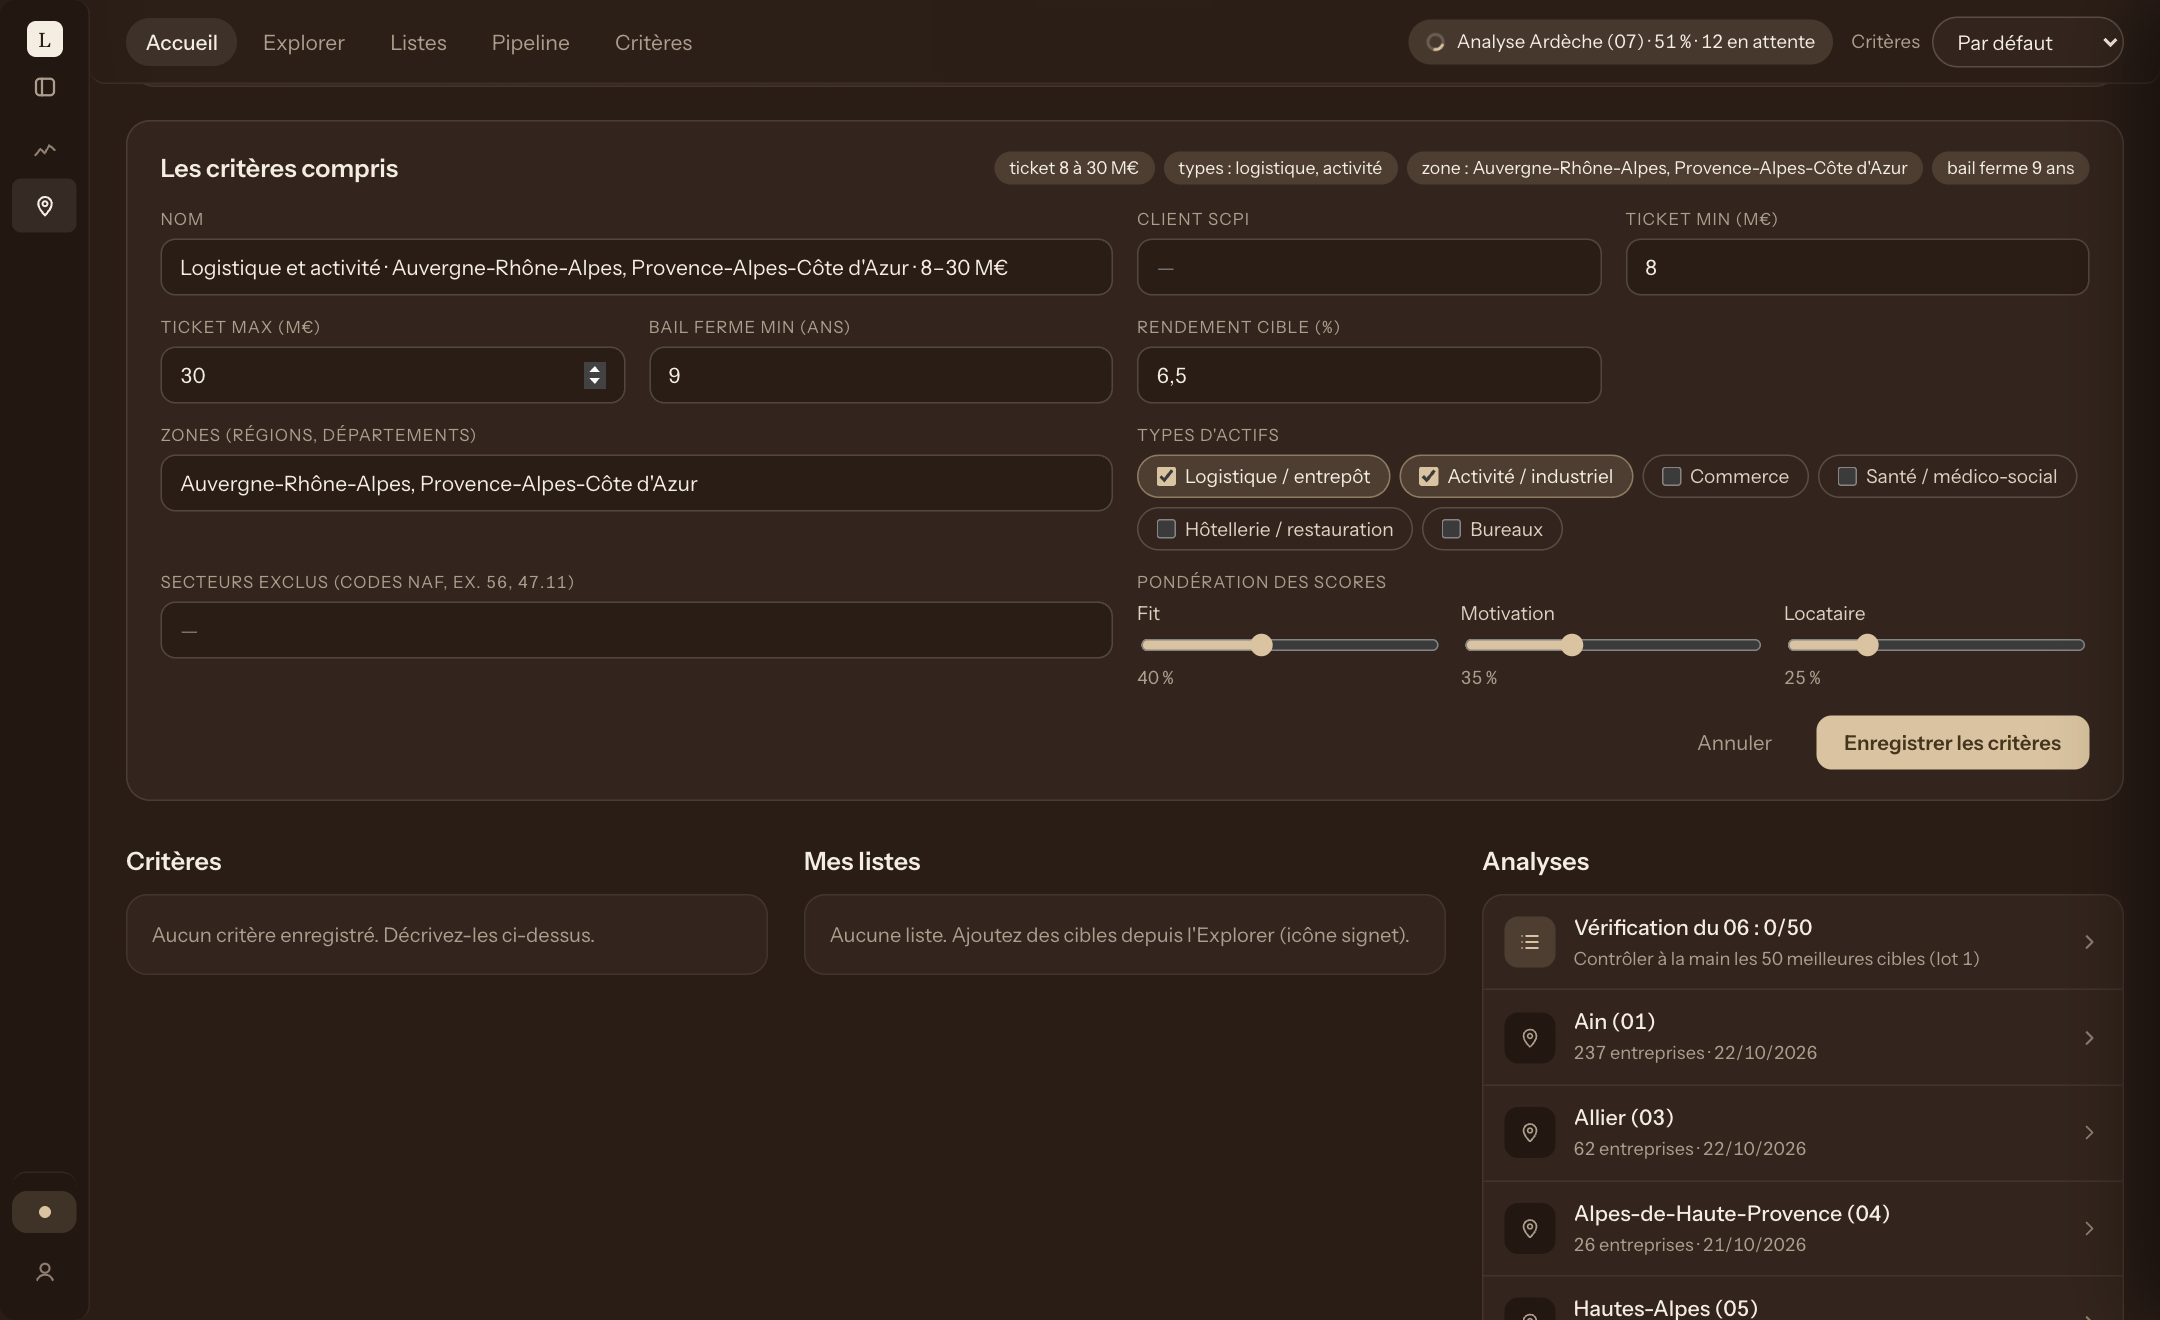
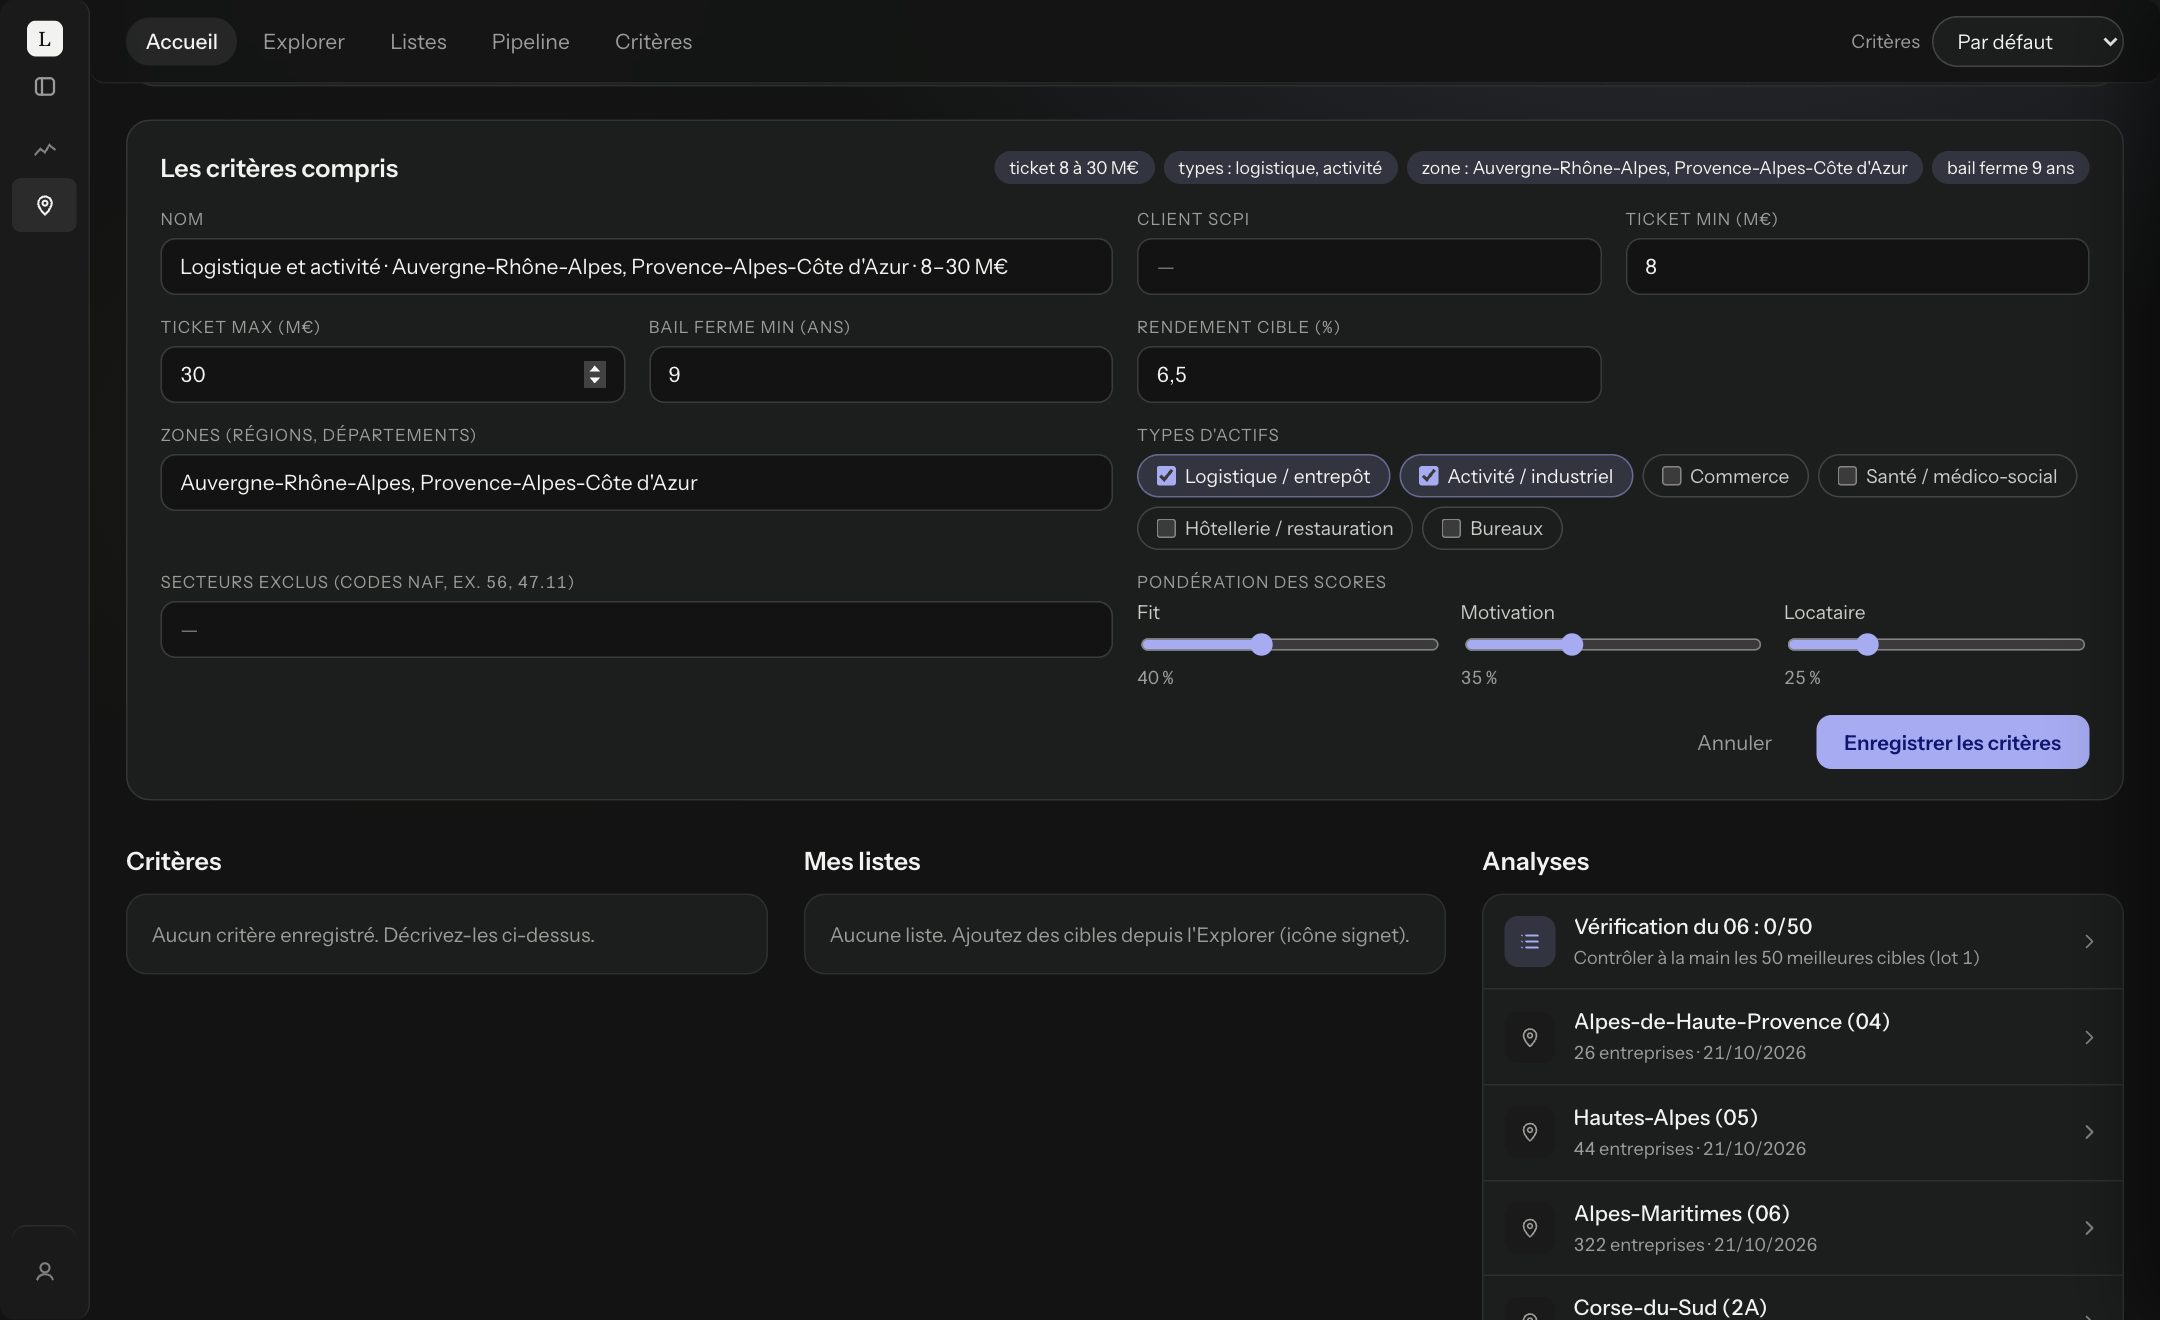
L'outil reprend son style d'avant ; la vitrine garde le chocolat et crème
Retour au thème gris et pervenche de l'application (titres sans serif,
pages de connexion d'origine) et aux captures de la vitrine prises dans
ce thème. La page vitrine conserve son style chocolat et crème.

diff --git a/public/css/theme-klocka.css b/public/css/theme-klocka.css
@@ -1,7 +1,6 @@
-/* Theme de Leez (22 oct. 2026) : chocolat et creme, titres en serif, accent
-   sable, d'apres la maquette « Leez Accueil ». Personnalisable par compte
-   (Mon compte > Personnalisation). Charge APRES leez.css : il redefinit les
-   jetons de couleur.
+/* Theme aux tons de Klocka, personnalisable par compte (Mon compte >
+   Personnalisation). Charge APRES leez.css : il redefinit les jetons de
+   couleur. Valeurs reprises de Klocka/src/design/jetons.json.
    public/js/personnalisation.js pose sur <html> :
      data-theme="sombre|clair", data-halo="1|0",
      --bg (fond), --barre (barre laterale et panneaux), --accent et sa famille,
@@ -10,77 +9,74 @@
    Les documents « papier » (memo, impression) gardent leur fond clair. */
 
 :root{
-  --bg:#2a1d16;
-  --barre:#221711;
+  --bg:#121312;
+  --barre:#191a19;
   --bg-soft:var(--barre);
-  --surface:#33251d;
-  --surface-raised:#3e2e24;
-  --border:rgba(244,237,226,.12);
-  --border-soft:rgba(244,237,226,.08);
-  --border-strong:rgba(244,237,226,.20);
-  --text:#f4ede2;
-  --text-body:#ddd1c1;
-  --text-muted:#ad9d8d;
-  --text-faint:#8f7f70;
-  --green:#9fcf9a;
-  --green-dim:rgba(159,207,154,.14);
-  --amber:#e4ad66;
-  --amber-dim:rgba(228,173,102,.14);
-  --pink:#e8836f;
-  --pink-dim:rgba(232,131,111,.15);
-  --trace:#a9c1dc;
-  --trace-dim:rgba(169,193,220,.14);
-  --accent:#d9c3a0;
-  --accent-hover:#e6d4b6;
-  --accent-dim:rgba(217,195,160,.16);
-  --accent-line:rgba(217,195,160,.45);
-  --on-accent:#2a1d16;
+  --surface:#1c1e1d;
+  --surface-raised:#2a2c2b;
+  --border:rgba(242,243,245,.11);
+  --border-soft:rgba(242,243,245,.08);
+  --border-strong:rgba(242,243,245,.18);
+  --text:#f2f2f0;
+  --text-body:#c9cbc7;
+  --text-muted:#9a9c99;
+  --text-faint:#808280;
+  --green:#7fd1a8;
+  --green-dim:rgba(127,209,168,.14);
+  --amber:#e0a45e;
+  --amber-dim:rgba(224,164,94,.14);
+  --pink:#e8746a;
+  --pink-dim:rgba(232,116,106,.14);
+  --trace:#8fb6e8;
+  --trace-dim:rgba(143,182,232,.14);
+  --accent:#a6abf2;
+  --accent-hover:#bfc3f6;
+  --accent-dim:rgba(166,171,242,.16);
+  --accent-line:rgba(166,171,242,.45);
+  --on-accent:#16183f;
   --sans:'Instrument Sans', Inter, system-ui, sans-serif;
-  --titre:'Source Serif 4', Georgia, 'Times New Roman', serif;
-  --survol:rgba(244,237,226,.05);
-  --actif:rgba(244,237,226,.09);
-  --carte-fond:#2f2119;
+  --survol:rgba(242,243,245,.05);
+  --actif:rgba(242,243,245,.08);
+  --carte-fond:#1b1c1b;
   color-scheme:dark;
 }
 
-/* Le clair : creme et brun. */
+/* Le clair de Klocka (jetons.couleurs_clair). */
 :root[data-theme="clair"]{
-  --bg:#efe8db;
-  --barre:#e7dfcf;
-  --surface:#f8f4ec;
-  --surface-raised:#e4dbca;
-  --border:rgba(42,29,22,.13);
-  --border-soft:rgba(42,29,22,.08);
-  --border-strong:rgba(42,29,22,.22);
-  --text:#2a1d16;
-  --text-body:#4a392d;
-  --text-muted:#7a6857;
-  --text-faint:#8c7b6b;
-  --green:#3d7a4c;
-  --green-dim:rgba(61,122,76,.12);
-  --amber:#a5641d;
-  --amber-dim:rgba(165,100,29,.12);
-  --pink:#b14a37;
-  --pink-dim:rgba(177,74,55,.12);
-  --trace:#4f6d91;
-  --trace-dim:rgba(79,109,145,.12);
-  --survol:rgba(42,29,22,.05);
-  --actif:rgba(42,29,22,.08);
-  --carte-fond:#e7dfcf;
+  --bg:#f0f0ee;
+  --barre:#f4f4f2;
+  --surface:#fbfbfa;
+  --surface-raised:#e9e9e7;
+  --border:rgba(28,29,28,.12);
+  --border-soft:rgba(28,29,28,.08);
+  --border-strong:rgba(28,29,28,.20);
+  --text:#1c1d1c;
+  --text-body:#3e403d;
+  --text-muted:#6f716e;
+  --text-faint:#7a7c79;
+  --green:#2f7a55;
+  --green-dim:rgba(47,122,85,.12);
+  --amber:#a9641c;
+  --amber-dim:rgba(169,100,28,.12);
+  --pink:#b8453a;
+  --pink-dim:rgba(184,69,58,.12);
+  --trace:#5b6fa8;
+  --trace-dim:rgba(91,111,168,.12);
+  --survol:rgba(28,29,28,.05);
+  --actif:rgba(28,29,28,.08);
+  --carte-fond:#f4f4f2;
   color-scheme:light;
 }
 
 body{background:var(--bg);font-family:var(--sans);}
-/* Le halo (sombre seulement) : une lumiere chaude et discrete en haut. */
+/* Le halo (sombre seulement) : un voile bleute en haut a droite, une chaleur discrete a gauche. */
 :root[data-halo="1"] body{
   background:
-    radial-gradient(ellipse 70% 55% at 78% -5%, rgba(217,195,160,.12), transparent 60%),
-    radial-gradient(ellipse 45% 50% at 22% 35%, rgba(160,110,70,.08), transparent 60%),
+    radial-gradient(ellipse 70% 55% at 78% -5%, rgba(132,142,182,.20), transparent 60%),
+    radial-gradient(ellipse 45% 50% at 22% 35%, rgba(150,120,90,.07), transparent 60%),
     var(--bg);
   background-attachment:fixed;
 }
-/* Les grands titres en serif, comme la vitrine. */
-.view-head h1,.pr-hero h1,.pr-page-tete h2,.pr-fiche-titre h2,.pr-tableau-tete h2,.perso-titre,.login-card h1{font-family:var(--titre);font-weight:500;letter-spacing:-.01em;}
 ::selection{background:var(--accent-dim);color:var(--text);}
 :focus-visible{outline-color:var(--accent);}
 

diff --git a/public/js/personnalisation.js b/public/js/personnalisation.js
@@ -15,7 +15,6 @@
   else racine.LeezPerso = fabrique();
 }(typeof self !== 'undefined' ? self : this, () => {
   const ACCENTS = {
-    sable: { nom: 'Sable', sombre: '#d9c3a0', clair: '#6b4a33' },
     menthe: { nom: 'Menthe', sombre: '#96c0b8', clair: '#3f7466' },
     sauge: { nom: 'Sauge', sombre: '#a9c5a0', clair: '#4f7a45' },
     bleu: { nom: 'Bleu', sombre: '#8fb6e8', clair: '#2d60b2' },
@@ -27,12 +26,12 @@
     rose: { nom: 'Rose', sombre: '#e85c8a', clair: '#e85c8a' },
   };
   const FONDS = {
-    sombre: { chocolat: { nom: 'Chocolat', fond: '#2a1d16' }, noir: { nom: 'Noir chaud', fond: '#121312' }, profond: { nom: 'Noir pur', fond: '#000000' }, anthracite: { nom: 'Anthracite', fond: '#1b1d1c' } },
-    clair: { creme: { nom: 'Crème', fond: '#efe8db' }, perle: { nom: 'Gris perle', fond: '#f0f0ee' }, blanc: { nom: 'Blanc', fond: '#ffffff' } },
+    sombre: { noir: { nom: 'Noir chaud', fond: '#121312' }, profond: { nom: 'Noir pur', fond: '#000000' }, anthracite: { nom: 'Anthracite', fond: '#1b1d1c' } },
+    clair: { perle: { nom: 'Gris perle', fond: '#f0f0ee' }, blanc: { nom: 'Blanc', fond: '#ffffff' } },
   };
   const BARRES = {
-    sombre: { origine: { nom: 'Chocolat', teinte: '#221711' }, noirchaud: { nom: 'Noir chaud', teinte: '#191a19' }, noir: { nom: 'Noir pur', teinte: '#000000' }, anthracite: { nom: 'Anthracite', teinte: '#242625' }, nuit: { nom: 'Bleu nuit', teinte: '#151a24' }, foret: { nom: 'Vert forêt', teinte: '#14201b' } },
-    clair: { origine: { nom: 'Crème', teinte: '#e7dfcf' }, perle: { nom: 'Gris perle', teinte: '#f4f4f2' }, blanc: { nom: 'Blanc', teinte: '#ffffff' }, sable: { nom: 'Sable', teinte: '#eeeae2' }, brume: { nom: 'Bleu brume', teinte: '#e8edf1' } },
+    sombre: { origine: { nom: 'Noir chaud', teinte: '#191a19' }, noir: { nom: 'Noir pur', teinte: '#000000' }, anthracite: { nom: 'Anthracite', teinte: '#242625' }, nuit: { nom: 'Bleu nuit', teinte: '#151a24' }, foret: { nom: 'Vert forêt', teinte: '#14201b' } },
+    clair: { origine: { nom: 'Gris perle', teinte: '#f4f4f2' }, blanc: { nom: 'Blanc', teinte: '#ffffff' }, sable: { nom: 'Sable', teinte: '#eeeae2' }, brume: { nom: 'Bleu brume', teinte: '#e8edf1' } },
   };
   const POLICES = {
     instrument: { nom: 'Instrument Sans', css: "'Instrument Sans', Inter, system-ui, sans-serif" },
@@ -41,7 +40,7 @@
     montserrat: { nom: 'Montserrat', css: "Montserrat, 'Instrument Sans', system-ui, sans-serif" },
     systeme: { nom: 'Celle du système', css: "system-ui, -apple-system, 'Segoe UI', Roboto, sans-serif" },
   };
-  const DEFAUT = Object.freeze({ mode: 'sombre', accent: 'sable', accent_perso: null, fond_sombre: 'chocolat', fond_clair: 'creme', barre_sombre: 'origine', barre_clair: 'origine', halo: false, police: 'instrument' });
+  const DEFAUT = Object.freeze({ mode: 'sombre', accent: 'pervenche', accent_perso: null, fond_sombre: 'noir', fond_clair: 'perle', barre_sombre: 'origine', barre_clair: 'origine', halo: true, police: 'instrument' });
   const MODES = [['sombre', 'Sombre'], ['clair', 'Clair'], ['appareil', "Comme l'appareil"]];
   const CLE_LOCALE = 'leez-personnalisation';
 
@@ -57,7 +56,7 @@
     if (FONDS.sombre[b.fond_sombre]) p.fond_sombre = b.fond_sombre;
     if (FONDS.clair[b.fond_clair]) p.fond_clair = b.fond_clair;
     for (const t of ['sombre', 'clair']) { const v = b[`barre_${t}`]; if (BARRES[t][v] || hex(v)) p[`barre_${t}`] = hex(v) || v; }
-    if (b.halo === true || b.halo === 'true') p.halo = true;
+    if (b.halo === false || b.halo === 'false') p.halo = false;
     if (POLICES[b.police]) p.police = b.police;
     return p;
   }

diff --git a/public/index.html b/public/index.html
@@ -8,7 +8,7 @@
 <link rel="stylesheet" href="/css/login.css">
 <link rel="stylesheet" href="/css/prospection.css">
 <link rel="preconnect" href="https://fonts.googleapis.com">
-<link href="https://fonts.googleapis.com/css2?family=Instrument+Sans:wght@400;500;600;700&family=Inter:wght@400;500;600;700&family=Figtree:wght@400;500;600;700&family=Montserrat:wght@400;500;600;700&family=Source+Serif+4:opsz,wght@8..60,400;8..60,500;8..60,600&display=swap" rel="stylesheet">
+<link href="https://fonts.googleapis.com/css2?family=Instrument+Sans:wght@400;500;600;700&family=Inter:wght@400;500;600;700&family=Figtree:wght@400;500;600;700&family=Montserrat:wght@400;500;600;700&display=swap" rel="stylesheet">
 <link rel="stylesheet" href="/css/theme-klocka.css">
 <!-- Personnalisation du compte : appliquee avant le premier affichage (pas de flash). -->
 <script src="/js/personnalisation.js"></script>

diff --git a/server/personnalisation.test.js b/server/personnalisation.test.js
@@ -14,10 +14,10 @@ test('couleurs personnalisees acceptees en hexadecimal seulement', () => {
   assert.equal(P.normaliser({ barre_sombre: 'javascript:alert(1)' }).barre_sombre, 'origine');
 });
 
-test('halo : sans par defaut, avec seulement si demande', () => {
-  assert.equal(P.normaliser({ halo: true }).halo, true);
-  assert.equal(P.normaliser({ halo: 'true' }).halo, true);
-  assert.equal(P.normaliser({}).halo, false);
+test('halo : faux seulement si demande explicitement', () => {
+  assert.equal(P.normaliser({ halo: false }).halo, false);
+  assert.equal(P.normaliser({ halo: 'false' }).halo, false);
+  assert.equal(P.normaliser({}).halo, true);
 });
 
 test('accent par theme et lisibilite de la barre', () => {

diff --git a/public/signup.html b/public/signup.html
@@ -6,10 +6,6 @@
 <title>Leez — Créer un compte</title>
 <link rel="stylesheet" href="/css/leez.css">
 <link rel="stylesheet" href="/css/login.css">
-<link rel="preconnect" href="https://fonts.googleapis.com">
-<link href="https://fonts.googleapis.com/css2?family=Instrument+Sans:wght@400;500;600;700&family=Inter:wght@400;500;600;700&family=Figtree:wght@400;500;600;700&family=Montserrat:wght@400;500;600;700&family=Source+Serif+4:opsz,wght@8..60,400;8..60,500;8..60,600&display=swap" rel="stylesheet">
-<link rel="stylesheet" href="/css/theme-klocka.css">
-<script src="/js/personnalisation.js"></script>
 </head>
 <body>
 

diff --git a/public/admin.html b/public/admin.html
@@ -6,10 +6,6 @@
 <title>Leez — Administration</title>
 <link rel="stylesheet" href="/css/leez.css">
 <link rel="stylesheet" href="/css/admin.css">
-<link rel="preconnect" href="https://fonts.googleapis.com">
-<link href="https://fonts.googleapis.com/css2?family=Instrument+Sans:wght@400;500;600;700&family=Inter:wght@400;500;600;700&family=Figtree:wght@400;500;600;700&family=Montserrat:wght@400;500;600;700&family=Source+Serif+4:opsz,wght@8..60,400;8..60,500;8..60,600&display=swap" rel="stylesheet">
-<link rel="stylesheet" href="/css/theme-klocka.css">
-<script src="/js/personnalisation.js"></script>
 </head>
 <body>
 

diff --git a/public/login.html b/public/login.html
@@ -6,10 +6,6 @@
 <title>Leez — Connexion</title>
 <link rel="stylesheet" href="/css/leez.css">
 <link rel="stylesheet" href="/css/login.css">
-<link rel="preconnect" href="https://fonts.googleapis.com">
-<link href="https://fonts.googleapis.com/css2?family=Instrument+Sans:wght@400;500;600;700&family=Inter:wght@400;500;600;700&family=Figtree:wght@400;500;600;700&family=Montserrat:wght@400;500;600;700&family=Source+Serif+4:opsz,wght@8..60,400;8..60,500;8..60,600&display=swap" rel="stylesheet">
-<link rel="stylesheet" href="/css/theme-klocka.css">
-<script src="/js/personnalisation.js"></script>
 </head>
 <body>
 
